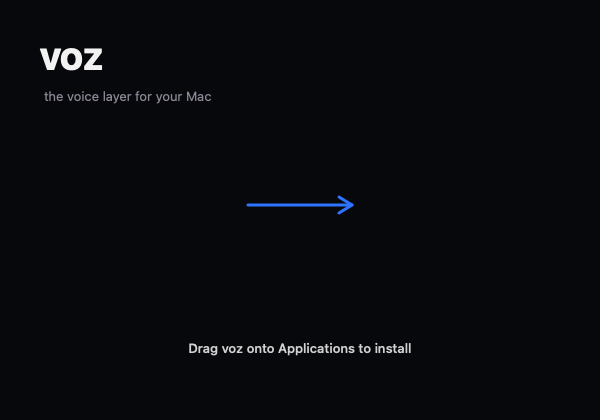
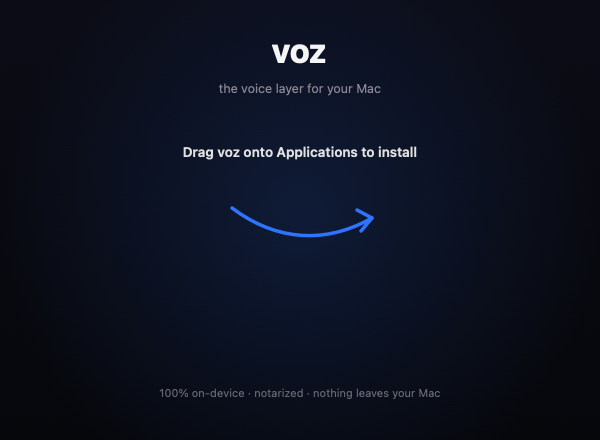
DMG: style with dmgbuild (headless) + a richer background
The Finder/AppleScript styling never applied in headless/CI builds (it needs an
Automation→Finder grant), so the shipped DMG was an unstyled dark window. Switch
to dmgbuild, which writes the .DS_Store programmatically — the dark background,
curved arrow, and icon positions now apply every time, no permission needed.

- scripts/dmgbuild-settings.py: window 600×440, icon_size 116, voz.app at (150,220),
  Applications at (450,220), background = media/dmg-bg.png.
- make-dmg-bg.swift: richer art — gradient, electric glow, wordmark, a curved arrow,
  install copy, footer microcopy (600×440 to match).
- release.sh: build the DMG via a throwaway dmgbuild venv; drop the Finder osascript.

Changed region(s): [[0.06, 0.0929, 0.75, 0.9286], [0.06, 0.0929, 0.18, 0.1857]]

diff --git a/apps/macos/scripts/make-dmg-bg.swift b/apps/macos/scripts/make-dmg-bg.swift
@@ -1,55 +1,74 @@
 #!/usr/bin/env swift
-// Draws the voz DMG background (dark, one electric-blue accent, an arrow toward Applications).
-// Usage: swift make-dmg-bg.swift <out.png>   → matches the 600×420 window release.sh sets.
+// Draws the voz DMG background — dark gradient, a soft electric glow, the wordmark, a curved arrow
+// from the app toward Applications, and install copy. Matches the 600×440 window dmgbuild sets.
+// Usage: swift make-dmg-bg.swift <out.png>
 import AppKit
 
-let W = 600.0, H = 420.0
+let W = 600.0, H = 440.0
 let out = CommandLine.arguments.count > 1 ? CommandLine.arguments[1] : "dmg-bg.png"
 
-let black = NSColor(red: 0x07/255.0, green: 0x08/255.0, blue: 0x0C/255.0, alpha: 1)
-let electric = NSColor(red: 0x2E/255.0, green: 0x74/255.0, blue: 0xFF/255.0, alpha: 1)
-let textHi = NSColor(white: 0.95, alpha: 1)
-let mist = NSColor(red: 0x8B/255.0, green: 0x87/255.0, blue: 0x94/255.0, alpha: 1)
+func rgb(_ r: Double, _ g: Double, _ b: Double, _ a: Double = 1) -> NSColor {
+    NSColor(red: r/255.0, green: g/255.0, blue: b/255.0, alpha: a)
+}
+let electric = rgb(0x2E, 0x74, 0xFF)
+let textHi = NSColor(white: 0.96, alpha: 1)
+let mist = rgb(0x8B, 0x87, 0x94)
 
-// Draw into a fixed 600×420-pixel bitmap (not lockFocus, which would 2× on a retina display and
-// mismatch the DMG window's point size).
 guard let rep = NSBitmapImageRep(bitmapDataPlanes: nil, pixelsWide: Int(W), pixelsHigh: Int(H),
         bitsPerSample: 8, samplesPerPixel: 4, hasAlpha: true, isPlanar: false,
         colorSpaceName: .deviceRGB, bytesPerRow: 0, bitsPerPixel: 0) else { exit(1) }
 NSGraphicsContext.saveGraphicsState()
 NSGraphicsContext.current = NSGraphicsContext(bitmapImageRep: rep)
+let ctx = NSGraphicsContext.current!.cgContext
 
-black.setFill(); NSRect(x: 0, y: 0, width: W, height: H).fill()
+// 1. Vertical gradient backdrop.
+NSGradient(starting: rgb(0x0B, 0x0C, 0x15), ending: rgb(0x06, 0x07, 0x0B))!
+    .draw(in: NSRect(x: 0, y: 0, width: W, height: H), angle: -90)
 
-// Wordmark + tagline (top-left). Finder y-origin is top; AppKit draws bottom-up.
-("voz" as NSString).draw(at: NSPoint(x: 40, y: H - 78),
-    withAttributes: [.font: NSFont.systemFont(ofSize: 40, weight: .bold), .foregroundColor: textHi])
-("the voice layer for your Mac" as NSString).draw(at: NSPoint(x: 44, y: H - 104),
-    withAttributes: [.font: NSFont.systemFont(ofSize: 13, weight: .regular), .foregroundColor: mist])
+// 2. Soft electric glow centred behind the icon row.
+ctx.saveGState()
+let glowCenter = CGPoint(x: 300, y: 220)
+if let g = CGGradient(colorsSpace: CGColorSpaceCreateDeviceRGB(),
+                      colors: [electric.withAlphaComponent(0.16).cgColor, electric.withAlphaComponent(0).cgColor] as CFArray,
+                      locations: [0, 1]) {
+    ctx.drawRadialGradient(g, startCenter: glowCenter, startRadius: 0,
+                           endCenter: glowCenter, endRadius: 300, options: [])
+}
+ctx.restoreGState()
 
-// Arrow from the app icon (~x150) toward Applications (~x450), at the icon row.
-let ay = H - 205.0 // mirror Finder icon y≈205
-let shaft = NSBezierPath()
-shaft.move(to: NSPoint(x: 248, y: ay)); shaft.line(to: NSPoint(x: 352, y: ay))
-shaft.lineWidth = 3; shaft.lineCapStyle = .round; electric.setStroke(); shaft.stroke()
+func centered(_ s: String, y: Double, font: NSFont, color: NSColor) {
+    let attr: [NSAttributedString.Key: Any] = [.font: font, .foregroundColor: color]
+    let w = (s as NSString).size(withAttributes: attr).width
+    (s as NSString).draw(at: NSPoint(x: (W - w) / 2, y: y), withAttributes: attr)
+}
+
+// 3. Wordmark + tagline (top, centred).
+centered("voz", y: H - 70, font: .systemFont(ofSize: 34, weight: .bold), color: textHi)
+centered("the voice layer for your Mac", y: H - 96, font: .systemFont(ofSize: 12.5, weight: .regular), color: mist)
+
+// 4. Instruction (above the icon row).
+centered("Drag voz onto Applications to install", y: 280,
+         font: .systemFont(ofSize: 13.5, weight: .semibold), color: NSColor(white: 0.88, alpha: 1))
+
+// 5. Curved arrow from just right of the app icon (x≈215) to just left of Applications (x≈385),
+//    at the icon-row height (y≈220 from top → y≈220 from bottom here). A gentle downward swoop.
+let arrow = NSBezierPath()
+arrow.move(to: NSPoint(x: 232, y: 232))
+arrow.curve(to: NSPoint(x: 372, y: 222), controlPoint1: NSPoint(x: 280, y: 196), controlPoint2: NSPoint(x: 330, y: 198))
+arrow.lineWidth = 3.5; arrow.lineCapStyle = .round
+electric.setStroke(); arrow.stroke()
+// Arrowhead.
 let head = NSBezierPath()
-head.move(to: NSPoint(x: 352, y: ay)); head.line(to: NSPoint(x: 339, y: ay + 8))
-head.move(to: NSPoint(x: 352, y: ay)); head.line(to: NSPoint(x: 339, y: ay - 8))
-head.lineWidth = 3; head.lineCapStyle = .round; electric.setStroke(); head.stroke()
+head.move(to: NSPoint(x: 372, y: 222)); head.line(to: NSPoint(x: 357, y: 230))
+head.move(to: NSPoint(x: 372, y: 222)); head.line(to: NSPoint(x: 361, y: 209))
+head.lineWidth = 3.5; head.lineCapStyle = .round; electric.setStroke(); head.stroke()
 
-// Install hint (bottom-center).
-let hint = "Drag voz onto Applications to install" as NSString
-let hAttr: [NSAttributedString.Key: Any] = [.font: NSFont.systemFont(ofSize: 13, weight: .medium),
-                                             .foregroundColor: NSColor(white: 0.82, alpha: 1)]
-let hw = hint.size(withAttributes: hAttr).width
-hint.draw(at: NSPoint(x: (W - hw) / 2, y: 64), withAttributes: hAttr)
+// 6. Footer microcopy.
+centered("100% on-device · notarized · nothing leaves your Mac", y: 40,
+         font: .systemFont(ofSize: 11, weight: .regular), color: rgb(0x6A, 0x67, 0x74))
 
 NSGraphicsContext.restoreGraphicsState()
 
 if let png = rep.representation(using: .png, properties: [:]) {
-    try? png.write(to: URL(fileURLWithPath: out))
-    print("wrote \(out)")
-} else {
-    FileHandle.standardError.write("failed to render\n".data(using: .utf8)!)
-    exit(1)
-}
+    try? png.write(to: URL(fileURLWithPath: out)); print("wrote \(out)")
+} else { FileHandle.standardError.write("failed to render\n".data(using: .utf8)!); exit(1) }

diff --git a/apps/macos/scripts/dmgbuild-settings.py b/apps/macos/scripts/dmgbuild-settings.py
@@ -1,0 +1,25 @@
+# dmgbuild settings for the voz DMG — builds a styled, branded disk image WITHOUT Finder/AppleScript
+# (it writes the .DS_Store programmatically), so it works headlessly / in CI with no Automation grant.
+# Driven by release.sh via env vars:  VOZ_APP=/abs/voz.app  VOZ_BG=/abs/dmg-bg.png
+import os
+
+application = os.environ["VOZ_APP"]
+appname = os.path.basename(application)        # "voz.app"
+
+# Contents: the app + an Applications symlink.
+files = [application]
+symlinks = {"Applications": "/Applications"}
+
+# Compressed, ready to sign + notarize.
+format = "UDZO"
+
+# Window + icon layout (must match the arrow/positions drawn in make-dmg-bg.swift; origin top-left).
+background = os.environ["VOZ_BG"]
+window_rect = ((220, 120), (600, 440))
+default_view = "icon-view"
+icon_size = 116
+text_size = 13
+icon_locations = {
+    appname: (150, 220),
+    "Applications": (450, 220),
+}